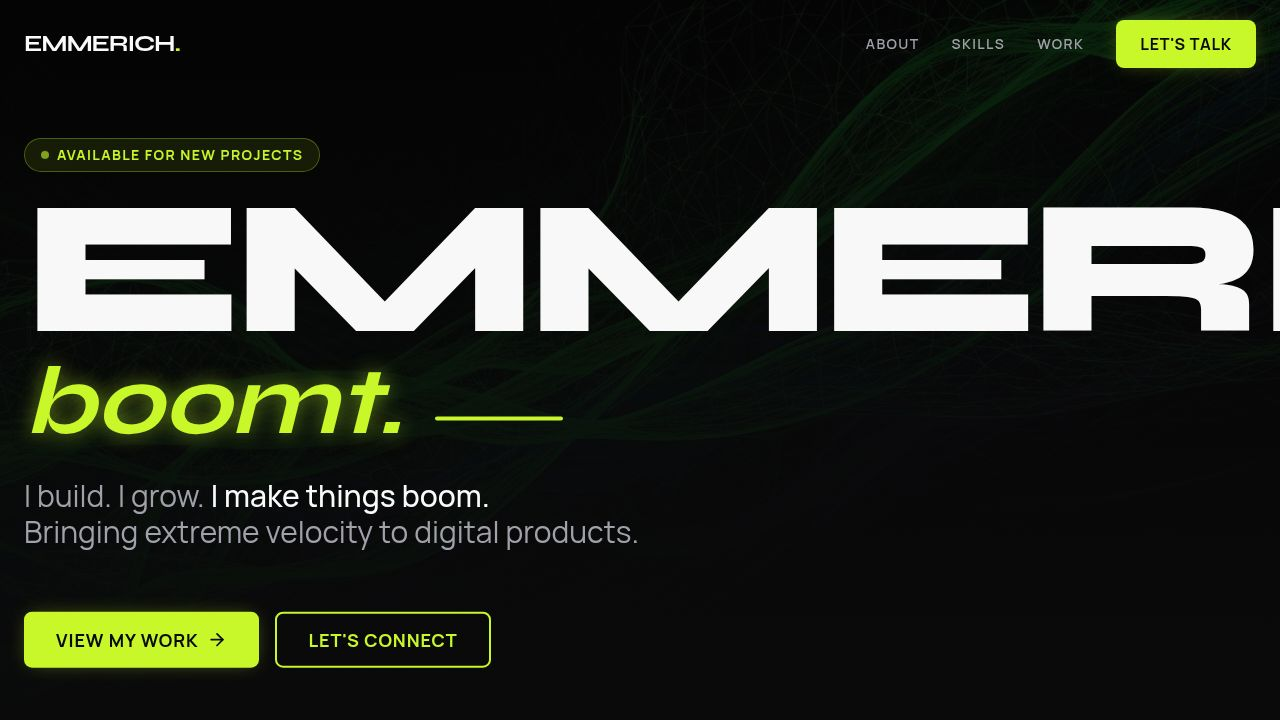
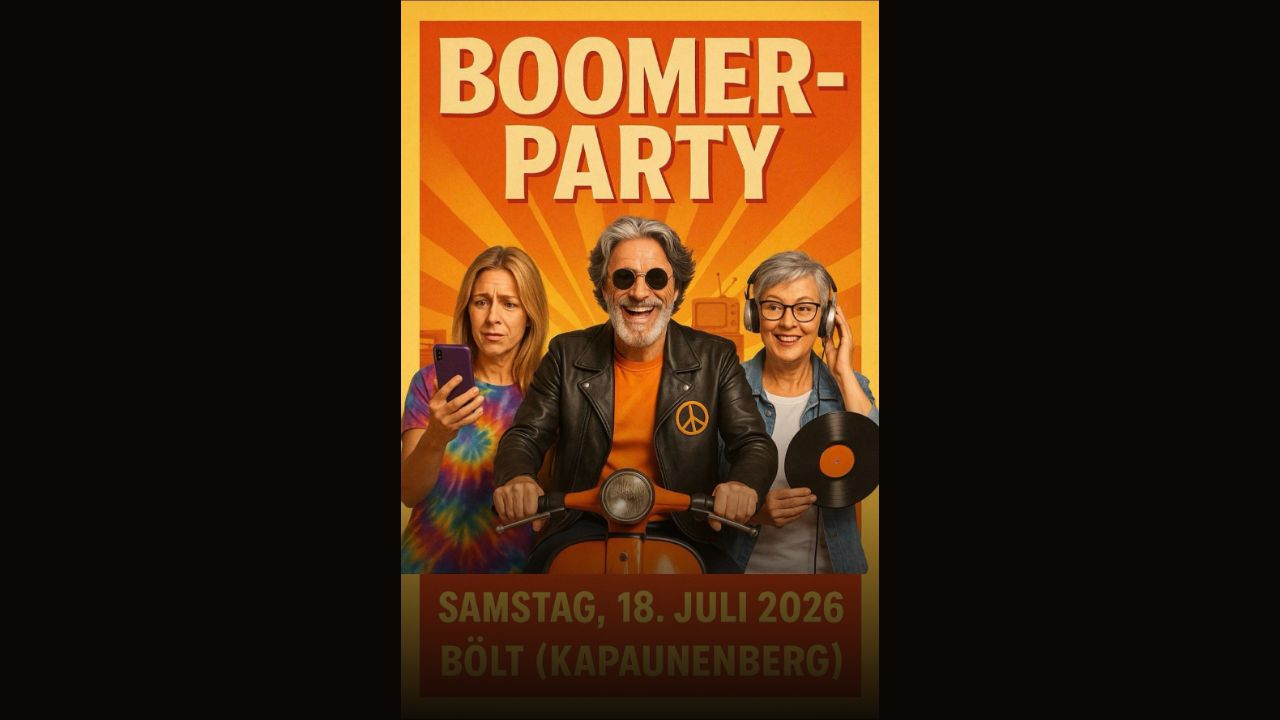
Add slogan to key locations and improve website metadata
Update index.html with new meta tags for SEO and sharing, introduce a new Motto component in BoomerPartyPage.tsx, and integrate the slogan into the submission confirmation message in Formular.tsx.

Replit-Commit-Author: Agent
Replit-Commit-Session-Id: ee0e9447-3bb9-4e19-9b5c-38074cf040b5
Replit-Commit-Checkpoint-Type: full_checkpoint
Replit-Commit-Event-Id: 59767bbc-1627-486a-8a52-2f48a746e4da
Replit-Commit-Screenshot-Url: https://storage.googleapis.com/screenshot-production-us-central1/33500c75-bab5-44f9-b0b9-0b596960393a/ee0e9447-3bb9-4e19-9b5c-38074cf040b5/kSrGSyS
Replit-Helium-Checkpoint-Created: true

diff --git a/artifacts/emmerich/src/components/Motto.tsx b/artifacts/emmerich/src/components/Motto.tsx
@@ -1,0 +1,48 @@
+export default function Motto() {
+  return (
+    <section
+      aria-hidden="true"
+      style={{
+        textAlign: "center",
+        padding: "4rem 2rem 3rem",
+        maxWidth: "480px",
+        margin: "0 auto",
+      }}
+    >
+      <style>{`
+        .motto-line {
+          display: block;
+          font-family: 'Playfair Display', serif;
+          font-style: italic;
+          font-weight: 700;
+          font-size: clamp(1.7rem, 5vw, 2.6rem);
+          line-height: 1.35;
+          color: var(--warm);
+          opacity: 0;
+          transform: translateY(12px);
+          animation: mottoFade 0.7s ease forwards;
+        }
+        .motto-line:nth-child(1) { animation-delay: 0.1s; }
+        .motto-line:nth-child(2) { animation-delay: 0.3s; color: var(--amber); }
+        .motto-line:nth-child(3) { animation-delay: 0.5s; }
+        @keyframes mottoFade {
+          to { opacity: 1; transform: none; }
+        }
+        .motto-rule {
+          width: 2.5rem;
+          height: 1px;
+          background: rgba(232,153,26,0.35);
+          margin: 1.5rem auto;
+        }
+      `}</style>
+
+      <div className="motto-rule" />
+
+      <span className="motto-line">Von uns.</span>
+      <span className="motto-line">Für uns.</span>
+      <span className="motto-line">Wird Zeit.</span>
+
+      <div className="motto-rule" />
+    </section>
+  );
+}

diff --git a/artifacts/emmerich/src/components/Formular.tsx b/artifacts/emmerich/src/components/Formular.tsx
@@ -18,9 +18,35 @@ function AlreadySubmitted() {
       >
         Klasse. Daumen hoch angekommen.
       </h3>
-      <p style={{ fontFamily: "'Lora', serif", fontSize: "0.92rem", color: "rgba(245,232,200,0.58)", lineHeight: 1.7 }}>
+      <p style={{ fontFamily: "'Lora', serif", fontSize: "1rem", color: "rgba(245,232,200,0.75)", lineHeight: 1.7, marginBottom: "2rem" }}>
         Das Orga-Team freut sich. Im Mai melden wir uns mit allen Details.
       </p>
+      <div
+        style={{
+          borderTop: "1px solid rgba(232,153,26,0.2)",
+          paddingTop: "2rem",
+          display: "flex",
+          flexDirection: "column",
+          gap: "0.15rem",
+        }}
+      >
+        {["Von uns.", "Für uns.", "Wird Zeit."].map((line, i) => (
+          <span
+            key={i}
+            style={{
+              display: "block",
+              fontFamily: "'Playfair Display', serif",
+              fontStyle: "italic",
+              fontWeight: 700,
+              fontSize: "clamp(1.4rem, 4.5vw, 2rem)",
+              color: i === 1 ? "var(--amber)" : "var(--warm)",
+              lineHeight: 1.4,
+            }}
+          >
+            {line}
+          </span>
+        ))}
+      </div>
     </div>
   );
 }

diff --git a/artifacts/emmerich/index.html b/artifacts/emmerich/index.html
@@ -3,7 +3,14 @@
   <head>
     <meta charset="UTF-8" />
     <meta name="viewport" content="width=device-width, initial-scale=1.0, maximum-scale=1" />
-    <title>Emmerich boomt!</title>
+    <title>Emmerich boomt! — BoomerParty · 18. Juli 2026</title>
+    <meta name="description" content="Von uns. Für uns. Wird Zeit. — Die BoomerParty am 18. Juli 2026 am Kapaunenberg/Am Bölt in Emmerich. Jetzt Interesse melden." />
+    <meta property="og:title" content="Emmerich boomt! — BoomerParty · 18. Juli 2026" />
+    <meta property="og:description" content="Von uns. Für uns. Wird Zeit. — Die BoomerParty für Emmerich. Kapaunenberg/Am Bölt, 18. Juli 2026." />
+    <meta property="og:type" content="website" />
+    <meta name="twitter:card" content="summary" />
+    <meta name="twitter:title" content="Emmerich boomt! — BoomerParty · 18. Juli 2026" />
+    <meta name="twitter:description" content="Von uns. Für uns. Wird Zeit. — Die BoomerParty für Emmerich. Am 18. Juli 2026 am Kapaunenberg." />
     <link rel="preconnect" href="https://fonts.googleapis.com">
     <link rel="preconnect" href="https://fonts.gstatic.com" crossorigin>
     <link href="https://fonts.googleapis.com/css2?family=Playfair+Display:ital,wght@0,700;0,800;1,400;1,700&family=Lora:ital,wght@0,400;0,500;1,400&display=swap" rel="stylesheet">

diff --git a/artifacts/emmerich/src/pages/BoomerPartyPage.tsx b/artifacts/emmerich/src/pages/BoomerPartyPage.tsx
@@ -1,6 +1,7 @@
 import { useState } from "react";
 import Poster from "@/components/Poster";
 import Letter from "@/components/Letter";
+import Motto from "@/components/Motto";
 import Fakten from "@/components/Fakten";
 import Countdown from "@/components/Countdown";
 import Formular from "@/components/Formular";
@@ -21,6 +22,7 @@ export default function BoomerPartyPage() {
     <main style={{ background: "var(--black)", minHeight: "100svh" }}>
       <Poster />
       <Letter />
+      <Motto />
       <Teilnehmer refreshKey={refreshCounter} />
       <KiStimmung />
       <Fakten />